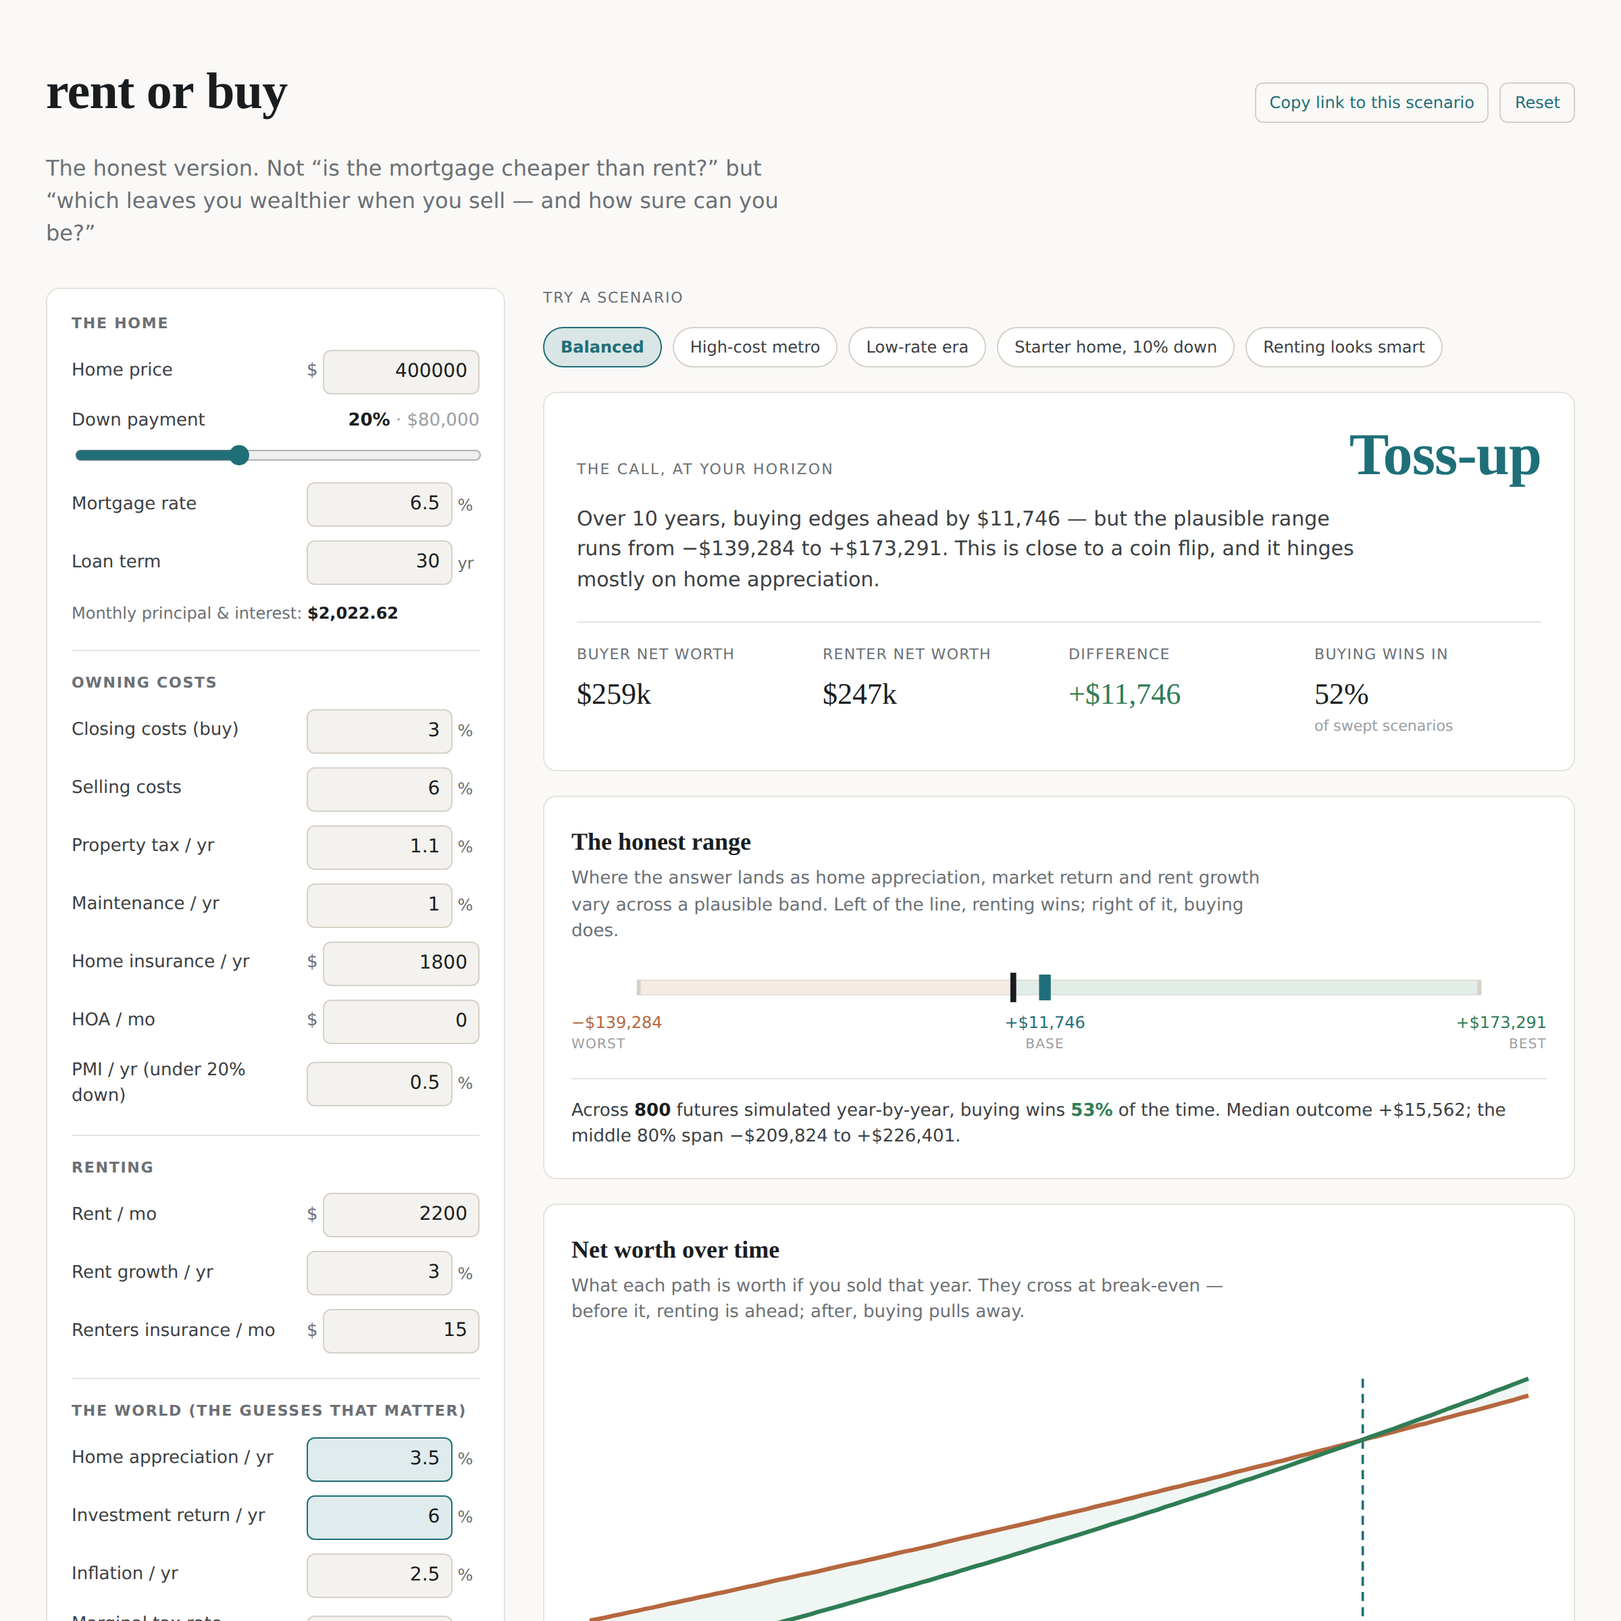
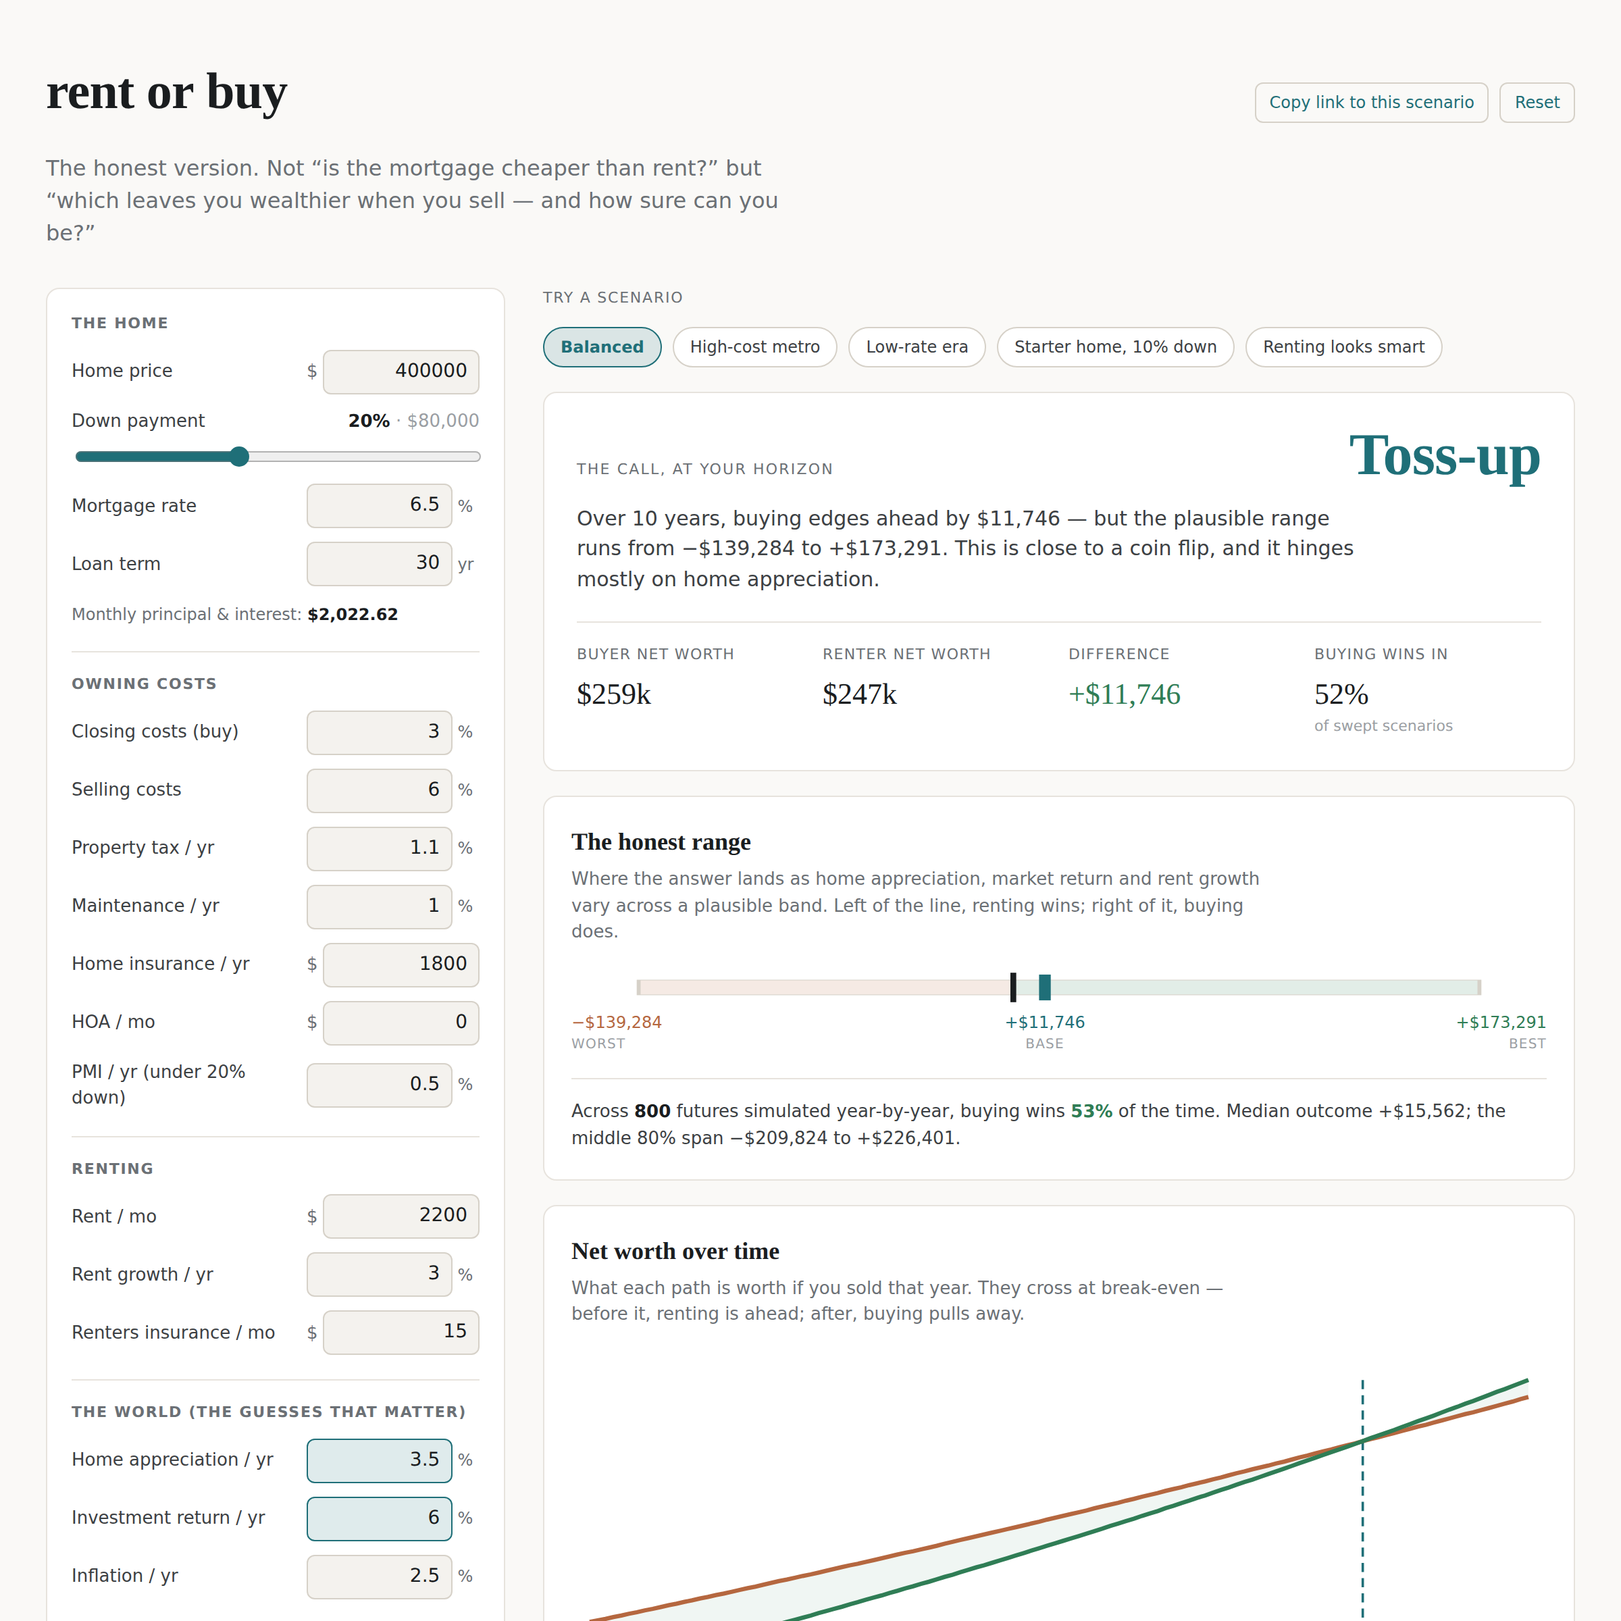
model the mortgage-interest deduction honestly
"You write off the mortgage interest" is the most-repeated reason to buy and
the most overstated. The engine now credits the marginal rate only on the
amount by which itemizing beats the standard deduction, after capping
state-and-local taxes at the $10k SALT limit. For a normal married-filer
scenario that benefit is exactly $0 — the standard deduction already wins —
and it turns positive only for large loans, high-tax states, or single
filers. Showing that zero instead of a phantom write-off is the whole point.

Adds filing status + state/local + other-itemized inputs (with the standard
deduction shown inline), monthlyTaxBenefit in the engine mirrored into the
path simulator, and tax.test.ts covering the SALT cap and the crossover. The
old "deduction helps buying" test is now split into the honest pair: it's a
wash by default, and helps only once itemizing clears the bar. 73 tests green.

diff --git a/src/app/App.tsx b/src/app/App.tsx
@@ -11,10 +11,10 @@
 import { useEffect, useMemo, useState } from "react";
 import type { ReactNode } from "react";
 
-import { DEFAULTS, PRESETS, buildInputs } from "./form.js";
+import { DEFAULTS, PRESETS, STANDARD_DEDUCTION, buildInputs } from "./form.js";
 import type { FormState } from "./form.js";
 import { decode, encode } from "./urlState.js";
-import { formatUSD, formatUSD0 } from "../lib/money.js";
+import { dollarsToCents, formatUSD, formatUSD0 } from "../lib/money.js";
 import type { Cents } from "../lib/money.js";
 import { monthlyPayment } from "../lib/mortgage.js";
 import { project, terminal } from "../lib/model.js";
@@ -156,7 +156,13 @@ function InputsPanel(props: {
         <NumberField label="Home appreciation / yr" value={form.homeAppreciationPct} onChange={(v) => set("homeAppreciationPct", v)} step={0.5} suffix="%" accent />
         <NumberField label="Investment return / yr" value={form.investmentReturnPct} onChange={(v) => set("investmentReturnPct", v)} step={0.5} suffix="%" accent />
         <NumberField label="Inflation / yr" value={form.inflationPct} onChange={(v) => set("inflationPct", v)} step={0.25} suffix="%" />
-        <NumberField label="Marginal tax rate (deduction)" value={form.marginalTaxRatePct} onChange={(v) => set("marginalTaxRatePct", v)} step={1} suffix="%" />
+      </Group>
+
+      <Group title="Taxes (optional — usually a wash)">
+        <FilingField value={form.filingStatus} onChange={(v) => set("filingStatus", v)} />
+        <NumberField label="Marginal tax rate" value={form.marginalTaxRatePct} onChange={(v) => set("marginalTaxRatePct", v)} step={1} suffix="%" />
+        <MoneyField label="State/local tax / yr" value={form.stateLocalTaxAnnual} onChange={(v) => set("stateLocalTaxAnnual", v)} />
+        <MoneyField label="Other itemized / yr" value={form.otherItemizedAnnual} onChange={(v) => set("otherItemizedAnnual", v)} />
       </Group>
 
       <Group title="Horizon">
@@ -199,6 +205,25 @@ function CopyLink(): JSX.Element {
     <button className="rb-ghost-btn" onClick={onCopy}>
       {copied ? "Link copied ✓" : "Copy link to this scenario"}
     </button>
+  );
+}
+
+function FilingField(props: {
+  value: FormState["filingStatus"]; onChange: (v: FormState["filingStatus"]) => void;
+}): JSX.Element {
+  const options: FormState["filingStatus"][] = ["single", "married"];
+  return fieldRow(
+    "Filing status",
+    <span className="rb-filing">
+      {options.map((s) => (
+        <button
+          key={s}
+          className={`rb-seg${props.value === s ? " rb-seg-on" : ""}`}
+          onClick={() => props.onChange(s)}
+        >{s}</button>
+      ))}
+    </span>,
+    `standard deduction ${formatUSD0(dollarsToCents(String(STANDARD_DEDUCTION[props.value])))}`,
   );
 }
 
@@ -564,6 +589,11 @@ function Tokens(): JSX.Element {
       .rb-num-input { position: relative; }
       .rb-suffix { color: var(--dim); font-size: 12px; width: 20px; }
       .rb-num-accent .rb-input { border-color: var(--accent); background: var(--accent-soft); }
+      .rb-filing { display: inline-flex; border: 1px solid var(--line-2); border-radius: 6px; overflow: hidden; }
+      .rb-seg { font: inherit; font-size: 12px; text-transform: capitalize; color: var(--dim);
+        background: transparent; border: none; padding: 5px 12px; cursor: pointer; }
+      .rb-seg + .rb-seg { border-left: 1px solid var(--line-2); }
+      .rb-seg-on { background: var(--accent-soft); color: var(--accent); font-weight: 600; }
       input[type=number] { -moz-appearance: textfield; }
       input[type=number]::-webkit-outer-spin-button, input[type=number]::-webkit-inner-spin-button { -webkit-appearance: none; margin: 0; }
       .rb-payline { font-size: 12px; color: var(--dim); margin-top: 2px; }

diff --git a/src/lib/model.ts b/src/lib/model.ts
@@ -62,13 +62,46 @@ export interface Inputs {
   readonly investmentReturnPct: number;
   /** Drives insurance and HOA growth. */
   readonly inflationPct: number;
-  /** Marginal rate for the optional mortgage-interest + property-tax
-   *  deduction. 0 models no deduction. */
+  /** Marginal rate applied to the *incremental* itemized benefit over the
+   *  standard deduction. 0 models no deduction at all. */
   readonly marginalTaxRatePct: number;
+  /** Federal standard deduction for the household. The mortgage-interest /
+   *  SALT write-off is only worth anything to the extent itemizing beats
+   *  this — which, post-2018, it usually doesn't. */
+  readonly standardDeduction: Cents;
+  /** State/local income (and other) taxes that share the $10k SALT cap with
+   *  property tax. */
+  readonly otherSaltAnnual: Cents;
+  /** Other itemizable deductions (charitable, etc.) the household already
+   *  has, which help clear the standard-deduction bar. */
+  readonly otherItemizedAnnual: Cents;
   /** Annual PMI as a percentage of the original loan, charged while the
    *  balance sits above 80% of the original price (i.e. when the down
    *  payment was under 20%). 0 disables it. */
   readonly pmiRatePct: number;
+}
+
+/** The federal cap on deductible state and local taxes (property + income),
+ *  in cents. The single biggest reason the mortgage deduction is worth far
+ *  less than folk wisdom assumes. */
+export const SALT_CAP: Cents = 1_000_000;
+
+/**
+ * The honest monthly value of the mortgage-interest + SALT deduction: the
+ * marginal rate applied only to the amount by which itemizing *beats* the
+ * standard deduction. Property tax and other state/local taxes are capped at
+ * the SALT limit first. Interest is annualized from the month (a fine
+ * approximation as it declines slowly within a year). Returns 0 — as it
+ * usually should post-2018 — whenever the standard deduction already wins.
+ */
+export function monthlyTaxBenefit(
+  inputs: Inputs, monthlyInterest: Cents, monthlyPropertyTax: Cents,
+): Cents {
+  if (inputs.marginalTaxRatePct <= 0) return 0;
+  const saltDeductible = Math.min(SALT_CAP, monthlyPropertyTax * 12 + inputs.otherSaltAnnual);
+  const itemizable = monthlyInterest * 12 + saltDeductible + inputs.otherItemizedAnnual;
+  const excess = Math.max(0, itemizable - inputs.standardDeduction);
+  return roundToCents((inputs.marginalTaxRatePct / 100) * (excess / 100) / 12);
 }
 
 export interface MonthPoint {
@@ -148,9 +181,7 @@ export function project(inputs: Inputs, horizonMonths: number): Projection {
     const maintenance = roundToCents((homeValue / 100) * (inputs.maintenancePct / 100) / 12);
     const insurance = roundToCents((inputs.homeInsuranceAnnual / 100) * inflFactor / 12);
     const hoa = roundToCents((inputs.hoaMonthly / 100) * inflFactor);
-    const taxBenefit = roundToCents(
-      (inputs.marginalTaxRatePct / 100) * ((interest + propertyTax) / 100),
-    );
+    const taxBenefit = monthlyTaxBenefit(inputs, interest, propertyTax);
 
     const pmi = balance > pmiThreshold ? pmiMonthlyAmount : 0;
     const buyerOutlay = mortgagePay + propertyTax + maintenance + insurance + hoa + pmi - taxBenefit;

diff --git a/tests/tax.test.ts b/tests/tax.test.ts
@@ -1,0 +1,66 @@
+import { describe, expect, it } from "vitest";
+import { dollarsToCents, formatUSD } from "../src/lib/money.js";
+import { SALT_CAP, monthlyTaxBenefit } from "../src/lib/model.js";
+import type { Inputs } from "../src/lib/model.js";
+
+const BASE: Inputs = {
+  homePrice: dollarsToCents("400000"),
+  downPayment: dollarsToCents("80000"),
+  mortgageRatePct: 6.5,
+  termYears: 30,
+  closingCostsBuy: dollarsToCents("12000"),
+  sellingCostsPct: 6,
+  propertyTaxPct: 1.1,
+  homeInsuranceAnnual: dollarsToCents("1800"),
+  maintenancePct: 1,
+  hoaMonthly: dollarsToCents("0"),
+  homeAppreciationPct: 3.5,
+  monthlyRent: dollarsToCents("2200"),
+  rentGrowthPct: 3,
+  rentersInsuranceMonthly: dollarsToCents("15"),
+  investmentReturnPct: 6,
+  inflationPct: 2.5,
+  marginalTaxRatePct: 32,
+  standardDeduction: dollarsToCents("30000"),
+  otherSaltAnnual: dollarsToCents("0"),
+  otherItemizedAnnual: dollarsToCents("0"),
+  pmiRatePct: 0.5,
+};
+
+// A representative early-loan month: ~$1,700 interest, ~$370 property tax.
+const interest = dollarsToCents("1700");
+const propertyTax = dollarsToCents("370");
+
+describe("monthlyTaxBenefit", () => {
+  it("is zero when the marginal rate is zero", () => {
+    expect(monthlyTaxBenefit({ ...BASE, marginalTaxRatePct: 0 }, interest, propertyTax)).toBe(0);
+  });
+
+  it("is zero when the standard deduction beats itemizing", () => {
+    // ~$20.4k interest + ~$4.4k SALT = ~$24.8k < $30k standard → no benefit,
+    // even at a 32% marginal rate.
+    expect(monthlyTaxBenefit(BASE, interest, propertyTax)).toBe(0);
+  });
+
+  it("kicks in once itemizing clears the standard deduction", () => {
+    const single = { ...BASE, standardDeduction: dollarsToCents("15000") };
+    expect(monthlyTaxBenefit(single, interest, propertyTax)).toBeGreaterThan(0);
+  });
+
+  it("caps state-and-local taxes at the SALT limit", () => {
+    // Property tax alone already exceeds the cap here; piling on state tax
+    // must not increase the deductible SALT further.
+    const bigTax = { ...BASE, standardDeduction: dollarsToCents("15000") };
+    const withoutState = monthlyTaxBenefit(
+      { ...bigTax, propertyTaxPct: 0 }, interest, dollarsToCents("1200"), // $14.4k/yr property tax > $10k cap
+    );
+    const withState = monthlyTaxBenefit(
+      { ...bigTax, otherSaltAnnual: dollarsToCents("20000") }, interest, dollarsToCents("1200"),
+    );
+    expect(withState).toBe(withoutState);
+  });
+
+  it("the SALT cap is $10,000", () => {
+    expect(formatUSD(SALT_CAP)).toBe("$10,000.00");
+  });
+});

diff --git a/src/app/form.ts b/src/app/form.ts
@@ -25,9 +25,19 @@ export interface FormState {
   investmentReturnPct: number;
   inflationPct: number;
   marginalTaxRatePct: number;
+  filingStatus: "single" | "married";
+  stateLocalTaxAnnual: string;
+  otherItemizedAnnual: string;
   pmiRatePct: number;
   horizonYears: number;
 }
+
+/** Approximate current-year federal standard deductions. The mortgage
+ *  deduction only helps to the extent itemizing beats these. */
+export const STANDARD_DEDUCTION: Record<FormState["filingStatus"], number> = {
+  single: 15000,
+  married: 30000,
+};
 
 export const DEFAULTS: FormState = {
   homePrice: "400000",
@@ -47,6 +57,9 @@ export const DEFAULTS: FormState = {
   investmentReturnPct: 6,
   inflationPct: 2.5,
   marginalTaxRatePct: 0,
+  filingStatus: "married",
+  stateLocalTaxAnnual: "0",
+  otherItemizedAnnual: "0",
   pmiRatePct: 0.5,
   horizonYears: 10,
 };
@@ -58,6 +71,9 @@ export const STRING_KEYS: ReadonlySet<keyof FormState> = new Set([
   "hoaMonthly",
   "monthlyRent",
   "rentersInsuranceMonthly",
+  "filingStatus",
+  "stateLocalTaxAnnual",
+  "otherItemizedAnnual",
 ]);
 
 /** Convert the string/number form into the engine's integer-cents Inputs.
@@ -95,6 +111,9 @@ export function buildInputs(f: FormState): { inputs: Inputs; horizonMonths: numb
       investmentReturnPct: f.investmentReturnPct,
       inflationPct: f.inflationPct,
       marginalTaxRatePct: f.marginalTaxRatePct,
+      standardDeduction: centsOr(String(STANDARD_DEDUCTION[f.filingStatus] ?? STANDARD_DEDUCTION.married), 30000),
+      otherSaltAnnual: centsOr(f.stateLocalTaxAnnual, 0),
+      otherItemizedAnnual: centsOr(f.otherItemizedAnnual, 0),
       pmiRatePct: f.pmiRatePct,
     },
   };

diff --git a/tests/model.test.ts b/tests/model.test.ts
@@ -21,6 +21,9 @@ const BASE: Inputs = {
   investmentReturnPct: 6,
   inflationPct: 2.5,
   marginalTaxRatePct: 0,
+  standardDeduction: dollarsToCents("30000"),
+  otherSaltAnnual: dollarsToCents("0"),
+  otherItemizedAnnual: dollarsToCents("0"),
   pmiRatePct: 0.5,
 };
 
@@ -89,8 +92,23 @@ describe("project — economics move the right way", () => {
       .toBeGreaterThan(at({ downPayment: dollarsToCents("40000") }));
   });
 
-  it("the tax deduction, when modeled, helps buying", () => {
-    expect(at({ marginalTaxRatePct: 32 })).toBeGreaterThan(at({ marginalTaxRatePct: 0 }));
+  it("the tax deduction is usually worth nothing — the standard deduction wins", () => {
+    // The honest finding: for a normal married-filer scenario, itemized
+    // interest + capped SALT falls short of the standard deduction, so a
+    // 32% marginal rate buys exactly zero benefit.
+    expect(at({ marginalTaxRatePct: 32 })).toBe(at({ marginalTaxRatePct: 0 }));
+  });
+
+  it("the deduction helps only once itemizing clears the standard deduction", () => {
+    // Big loan, high SALT, and a single filer's lower standard deduction:
+    // now itemizing wins and the marginal rate actually buys something.
+    const heavy = {
+      downPayment: dollarsToCents("40000"),
+      standardDeduction: dollarsToCents("15000"),
+      otherSaltAnnual: dollarsToCents("8000"),
+    };
+    expect(at({ ...heavy, marginalTaxRatePct: 32 }))
+      .toBeGreaterThan(at({ ...heavy, marginalTaxRatePct: 0 }));
   });
 
   it("PMI hurts buying, and only with under-20% down", () => {

diff --git a/src/lib/montecarloPaths.ts b/src/lib/montecarloPaths.ts
@@ -20,6 +20,7 @@
  */
 
 import type { Inputs } from "./model.js";
+import { monthlyTaxBenefit } from "./model.js";
 import { monthlyPayment, monthlyRate } from "./mortgage.js";
 import { applyRate, roundToCents } from "./money.js";
 import type { Cents } from "./money.js";
@@ -89,7 +90,7 @@ function simulatePath(
     const maintenance = roundToCents((homeValue / 100) * (inputs.maintenancePct / 100) / 12);
     const insurance = roundToCents((inputs.homeInsuranceAnnual / 100) * inflFactor / 12);
     const hoa = roundToCents((inputs.hoaMonthly / 100) * inflFactor);
-    const taxBenefit = roundToCents((inputs.marginalTaxRatePct / 100) * ((interest + propertyTax) / 100));
+    const taxBenefit = monthlyTaxBenefit(inputs, interest, propertyTax);
     const pmi = balance > pmiThreshold ? pmiMonthlyAmount : 0;
     const buyerOutlay = mortgagePay + propertyTax + maintenance + insurance + hoa + pmi - taxBenefit;
 

diff --git a/src/cli/analyze.ts b/src/cli/analyze.ts
@@ -30,6 +30,9 @@ const SCENARIO: Inputs = {
   investmentReturnPct: 6,
   inflationPct: 2.5,
   marginalTaxRatePct: 0,
+  standardDeduction: dollarsToCents("30000"),
+  otherSaltAnnual: dollarsToCents("0"),
+  otherItemizedAnnual: dollarsToCents("0"),
   pmiRatePct: 0.5,
 };
 

diff --git a/tests/montecarlo.test.ts b/tests/montecarlo.test.ts
@@ -21,6 +21,9 @@ const BASE: Inputs = {
   investmentReturnPct: 6,
   inflationPct: 2.5,
   marginalTaxRatePct: 0,
+  standardDeduction: dollarsToCents("30000"),
+  otherSaltAnnual: dollarsToCents("0"),
+  otherItemizedAnnual: dollarsToCents("0"),
   pmiRatePct: 0.5,
 };
 

diff --git a/tests/montecarloPaths.test.ts b/tests/montecarloPaths.test.ts
@@ -22,6 +22,9 @@ const BASE: Inputs = {
   investmentReturnPct: 6,
   inflationPct: 2.5,
   marginalTaxRatePct: 0,
+  standardDeduction: dollarsToCents("30000"),
+  otherSaltAnnual: dollarsToCents("0"),
+  otherItemizedAnnual: dollarsToCents("0"),
   pmiRatePct: 0.5,
 };
 

diff --git a/tests/sensitivity.test.ts b/tests/sensitivity.test.ts
@@ -21,6 +21,9 @@ const BASE: Inputs = {
   investmentReturnPct: 6,
   inflationPct: 2.5,
   marginalTaxRatePct: 0,
+  standardDeduction: dollarsToCents("30000"),
+  otherSaltAnnual: dollarsToCents("0"),
+  otherItemizedAnnual: dollarsToCents("0"),
   pmiRatePct: 0.5,
 };
 

diff --git a/README.md b/README.md
@@ -57,13 +57,13 @@ guessing at. Showing that is the entire point.
   and the middle-80% dollar span; a test pins the path engine to the
   deterministic model at zero volatility.
 - `src/cli/analyze.ts` — the headless report above. `npm run analyze [years]`.
-- 67 tests, including the economics moving the right way in every direction.
+- 73 tests, including the economics moving the right way in every direction.
 
 ## Running
 
 ```
 npm install
-npm test              # 67 tests, all green
+npm test              # 73 tests, all green
 npm run analyze 10    # the report, for a 10-year horizon
 ```
 
@@ -86,6 +86,16 @@ The buyer's edge is forced saving and leverage on appreciation; the renter's
 edge is a large liquid sum invested from day one and no transaction costs.
 Which wins is genuinely uncertain, which is why the output is a range.
 
+**The tax deduction is modeled honestly, which usually means it's worth
+nothing.** "You get to write off the mortgage interest" is the most-repeated
+reason to buy and the most overstated. The engine only credits the marginal
+rate on the amount by which itemizing *beats* the standard deduction, after
+capping state-and-local taxes at the $10k SALT limit — and for a normal
+household, post-2018, itemized interest plus capped SALT falls short of the
+~$30k standard deduction, so the benefit is exactly $0. It turns positive
+only for large loans, high-tax states, or single filers. Showing that zero,
+rather than a phantom write-off, is the point.
+
 **Conventions that change the answer, stated plainly.** Home value and the
 investment portfolios compound monthly. Rent, property tax, maintenance,
 insurance and HOA step once a year, the way real leases and assessments do.
@@ -99,11 +109,6 @@ integer tick grid, ported for the same reason.
 
 An honest tool is honest about its edges. This model, in its current form:
 
-- **Models the tax deduction simply, and off by default.** The optional
-  marginal-rate deduction on mortgage interest + property tax ignores the
-  SALT cap and the standard-deduction crossover — the two things that make
-  the real benefit far smaller than calculators claim — so it defaults to
-  zero rather than overstate buying.
 - **Assumes a fixed rate and no refinancing.** No ARMs, no rate path, no
   refi. A fixed 30-year is the honest default; the rest is a forecast on top
   of a forecast.
